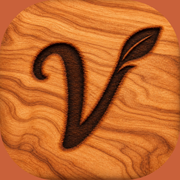
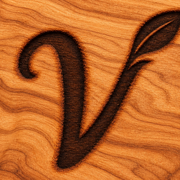
Aggiornamenti PWA con prompt visibile, fix icona/carousel/tutorial
- PWA: registerType "prompt" invece di "autoUpdate" — un nuovo deploy non
  scambia più la versione in silenzio sotto i piedi dell'utente. Banner
  "nuova versione disponibile" (UpdatePrompt.tsx) via virtual:pwa-register/react,
  con controllo periodico ogni 30 minuti. Chi riapre l'app da zero la ottiene
  comunque in automatico, senza vedere nulla.
- Icona app: rigenerata da zero (any + maskable, tutte le dimensioni). Il file
  sorgente aveva il quadrato di legno più piccolo del canvas con un margine
  color terracotta: iOS/Android applicavano la propria mascheratura sopra,
  risultando in un'icona dentro un'altra icona. Ora il legno arriva bordo a
  bordo; la variante maskable rispetta la safe zone all'80% con un margine
  sfumato dello stesso tono, mai un colore diverso.
- Carousel mockup della landing: i due telefoni laterali finivano a distanze
  diverse dal centro (uno quasi del tutto fuori schermo, l'altro solo in
  parte) perché il ricentraggio "metà larghezza" avveniva DENTRO l'elemento
  ruotato — ruotare un offset fisso in due versi opposti non è mai speculare.
  Spostato il ricentraggio a un margine di layout, risolto prima di
  qualunque rotazione: ora entrambi i lati sono alla stessa distanza (320px)
  dal centro.
- Tutorial: i banner degli step brevi del wizard (tag, richieste, esclusioni,
  budget, supermercato) ora appaiono sotto il bottone Continua invece che
  sopra, dove finivano proprio sui controlli da toccare. I due passi sul
[…]

diff --git a/src/tutorial/beats.ts b/src/tutorial/beats.ts
@@ -41,7 +41,13 @@ export const BEATS: Beat[] = [
     id: "wizard-0",
     testo: "Tocca i tag che ti interessano, poi Continua",
     target: "wizard-continua",
-    posizione: "sopra",
+    // "Sotto", non "sopra": la card del wizard occupa quasi tutta l'altezza dello
+    // schermo, e per gli step corti (tag, testo libero, esclusioni, budget,
+    // supermercato) c'è molto spazio libero SOTTO il bottone Continua, non sopra
+    // (dove invece stanno i controlli veri). Solo i due step lunghi e scrollabili
+    // (wizard-4, wizard-6) restano "sopra": lì il bottone è già quasi in fondo e
+    // sotto non c'è spazio, mentre sopra il fumetto copre al più una riga.
+    posizione: "sotto",
     evidenzia: true,
     avanzamento: { tipo: "azione", verifica: (c) => (c.wizardStep ?? -1) > 0 },
   },
@@ -49,7 +55,7 @@ export const BEATS: Beat[] = [
     id: "wizard-1",
     testo: "Scrivi richieste puntuali, se vuoi, poi Continua",
     target: "wizard-continua",
-    posizione: "sopra",
+    posizione: "sotto",
     evidenzia: true,
     avanzamento: { tipo: "azione", verifica: (c) => (c.wizardStep ?? -1) > 1 },
   },
@@ -57,7 +63,7 @@ export const BEATS: Beat[] = [
     id: "wizard-2",
     testo: "Segna cosa evitare solo questa settimana",
     target: "wizard-continua",
-    posizione: "sopra",
+    posizione: "sotto",
     evidenzia: true,
     avanzamento: { tipo: "azione", verifica: (c) => (c.wizardStep ?? -1) > 2 },
   },
@@ -65,7 +71,7 @@ export const BEATS: Beat[] = [
     id: "wizard-3",
     testo: "Imposta quanto vuoi spendere in totale",
     target: "wizard-continua",
-    posizione: "sopra",
+    posizione: "sotto",
     evidenzia: true,
     avanzamento: { tipo: "azione", verifica: (c) => (c.wizardStep ?? -1) > 3 },
   },
@@ -81,7 +87,7 @@ export const BEATS: Beat[] = [
     id: "wizard-5",
     testo: "Indica il tuo supermercato, poi genera",
     target: "wizard-continua",
-    posizione: "sopra",
+    posizione: "sotto",
     evidenzia: true,
     avanzamento: { tipo: "azione", verifica: (c) => (c.wizardStep ?? -1) > 5 },
   },
@@ -96,16 +102,20 @@ export const BEATS: Beat[] = [
   {
     id: "piano-1",
     testo: "Eccola: la tua settimana è pronta",
-    target: "meal-list",
-    posizione: "sopra",
+    // "meal-list" è l'intera lista (7 giorni, molto più alta dello schermo): usarla
+    // come bersaglio con "sopra" faceva finire il fumetto sopra il banner Aggiorna,
+    // coprendolo. "banner-aggiorna" è corto e sta appena sopra la lista: "sotto"
+    // atterra proprio all'inizio della settimana, senza coprire nulla di cliccabile.
+    target: "banner-aggiorna",
+    posizione: "sotto",
     evidenzia: false,
     avanzamento: { tipo: "tap" },
   },
   {
     id: "piano-2",
     testo: "Tocca un pasto per cambiarlo o bloccarlo",
-    target: "meal-list",
-    posizione: "sopra",
+    target: "banner-aggiorna",
+    posizione: "sotto",
     evidenzia: false,
     avanzamento: { tipo: "tap" },
   },

diff --git a/src/components/UpdatePrompt.tsx b/src/components/UpdatePrompt.tsx
@@ -1,0 +1,46 @@
+import { RefreshCw } from "lucide-react";
+import { useRegisterSW } from "virtual:pwa-register/react";
+
+/** Ogni quanto controllare se è uscito un aggiornamento mentre l'app resta aperta. */
+const INTERVALLO_CONTROLLO_MS = 30 * 60 * 1000;
+
+/**
+ * Aggiornamenti PWA mai silenziosi. Il service worker nuovo resta IN ATTESA
+ * (vedi registerType: "prompt" in vite.config.ts) finché non è l'utente a
+ * dare il via toccando questo banner — mai uno scambio di versione sotto i
+ * piedi mentre l'app è già aperta.
+ *
+ * Chi invece la riapre da zero, con nessuna scheda della versione precedente
+ * rimasta indietro, la ottiene comunque in automatico: è il browser stesso
+ * ad attivare da solo il service worker in attesa non appena l'ultima scheda
+ * vecchia si chiude — questo componente in quel caso non mostra nulla.
+ */
+export function UpdatePrompt() {
+  const {
+    needRefresh: [needRefresh],
+    updateServiceWorker,
+  } = useRegisterSW({
+    onRegisteredSW(_url, registration) {
+      if (!registration) return;
+      // Controllo periodico: senza, il browser scoprirebbe un nuovo deploy solo
+      // alla prossima navigazione o dopo ore — con una SPA come questa, che
+      // resta aperta a lungo, l'aggiornamento arriverebbe troppo tardi.
+      window.setInterval(() => registration.update(), INTERVALLO_CONTROLLO_MS);
+    },
+  });
+
+  if (!needRefresh) return null;
+
+  return (
+    <div className="fixed inset-x-0 top-0 z-[200] flex justify-center px-4 pt-[calc(env(safe-area-inset-top)+12px)]">
+      <button
+        type="button"
+        onClick={() => updateServiceWorker(true)}
+        className="flex items-center gap-2 rounded-full bg-primary-800 px-5 py-3 text-body-sm font-semibold text-paper-50 shadow-elevated active:bg-primary-900"
+      >
+        <RefreshCw size={16} />
+        È disponibile una nuova versione, tocca per aggiornare
+      </button>
+    </div>
+  );
+}

diff --git a/vite.config.ts b/vite.config.ts
@@ -16,7 +16,14 @@ export default defineConfig({
     // possono accettare un certificato self-signed, es. browser automatizzati.)
     ...(process.env.HTTP_ONLY ? [] : [basicSsl()]),
     VitePWA({
-      registerType: "autoUpdate",
+      // "prompt", non "autoUpdate": un nuovo service worker resta IN ATTESA
+      // finché non è l'utente a dare il via (banner in UpdatePrompt.tsx) —
+      // mai uno scambio di versione silenzioso mentre l'app è già aperta.
+      // Chi la riapre da zero (nessuna scheda rimasta indietro) la ottiene
+      // comunque in automatico: è il browser stesso ad attivare il service
+      // worker in attesa non appena l'ultima scheda della versione precedente
+      // si chiude — nessun prompt necessario in quel caso.
+      registerType: "prompt",
       includeAssets: ["favicon.svg", "apple-touch-icon.png"],
       manifest: {
         name: APP_NAME,
@@ -39,6 +46,12 @@ export default defineConfig({
       workbox: {
         globPatterns: ["**/*.{js,css,html,ico,png,svg,webp,woff,woff2}"],
         navigateFallback: "/index.html",
+        // Non salta l'attesa da solo (coerente con registerType: "prompt" — è il
+        // messaggio SKIP_WAITING di updateServiceWorker() a farlo scattare) ma,
+        // una volta attivato, prende il controllo di tutte le schede subito:
+        // basta la reload che l'app fa già dopo l'ok dell'utente, non due.
+        clientsClaim: true,
+        cleanupOutdatedCaches: true,
       },
       devOptions: {
         enabled: true,

diff --git a/src/screens/landing/components/MockupCarousel.tsx b/src/screens/landing/components/MockupCarousel.tsx
@@ -250,14 +250,21 @@ function CarouselItem({
   const zIndex = useTransform(dist, (d) => Math.round(100 - d));
 
   return (
+    // Il ricentraggio (metà larghezza) è un margine, non più un transform su un
+    // figlio annidato dentro questo elemento ruotato: un margine si risolve
+    // nel layout PRIMA di qualunque transform, quindi qui il box ha già le sue
+    // dimensioni e la sua posizione vere quando rotate/scale entrano in gioco,
+    // e ruotano attorno al SUO centro reale — niente più deriva a sinistra su
+    // un lato sì e sull'altro no (ruotare un offset fisso in due versi opposti
+    // non è mai speculare; ruotare un box attorno al proprio centro lo è sempre).
     <motion.div
-      className="absolute left-1/2 top-10"
+      className="absolute left-1/2 top-10 w-[210px] -ml-[105px] md:w-[240px] md:-ml-[120px]"
       style={{ x, y, rotate, scale, opacity, zIndex }}
       onTap={() => {
         if (!isActive) onTap();
       }}
     >
-      <div className="-translate-x-1/2">{children}</div>
+      {children}
     </motion.div>
   );
 }

diff --git a/src/App.tsx b/src/App.tsx
@@ -13,6 +13,7 @@ import { LandingScreen } from "./screens/landing/LandingScreen";
 import { useUiStore } from "./store/uiStore";
 import { PatternBackground } from "./components/PatternBackground";
 import { ToastHost } from "./components/ToastHost";
+import { UpdatePrompt } from "./components/UpdatePrompt";
 import { TutorialEngine } from "./tutorial/TutorialEngine";
 
 export function App() {
@@ -27,6 +28,7 @@ export function App() {
     <>
       <PatternBackground />
       <ToastHost />
+      <UpdatePrompt />
       <TutorialEngine />
       {!onboardingCompletato ? (
         <Routes>

diff --git a/src/chalk/ChalkFumetto.tsx b/src/chalk/ChalkFumetto.tsx
@@ -61,7 +61,8 @@ export function ChalkFumetto({ children, lato, puntaOffset = 0.5, className, ani
         visibile: { opacity: 1, scale: 1, transition: { duration: 0.22, ease: "easeOut" } },
       }}
       className={cn(
-        "relative rounded-2xl bg-marchiatura px-4 py-3 shadow-[0_8px_18px_-6px_rgb(0_0_0/0.5)]",
+        // rounded-lg, non più rounded-2xl: rettangolo smussato, non più una pillola.
+        "relative rounded-lg bg-marchiatura px-4 py-3 shadow-[0_8px_18px_-6px_rgb(0_0_0/0.5)]",
         className,
       )}
     >

diff --git a/src/vite-env.d.ts b/src/vite-env.d.ts
@@ -1,0 +1,2 @@
+/// <reference types="vite/client" />
+/// <reference types="vite-plugin-pwa/react" />
